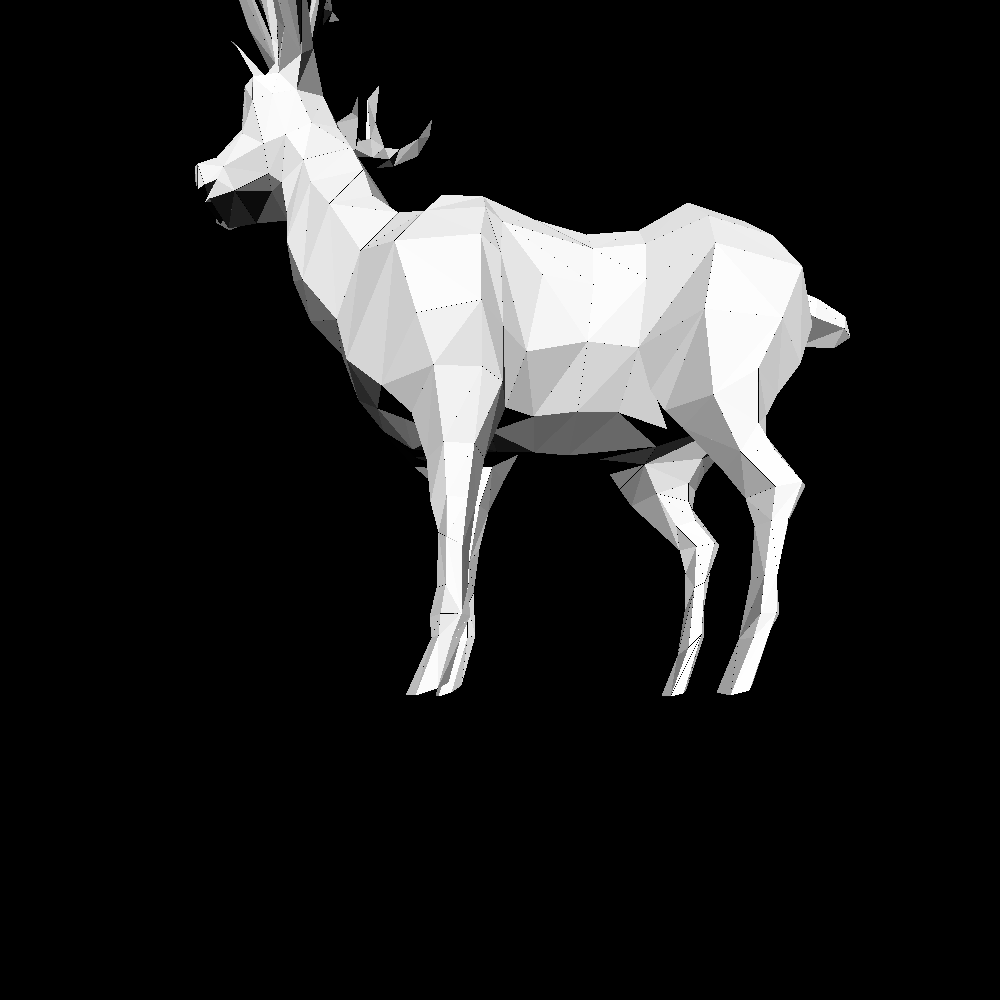
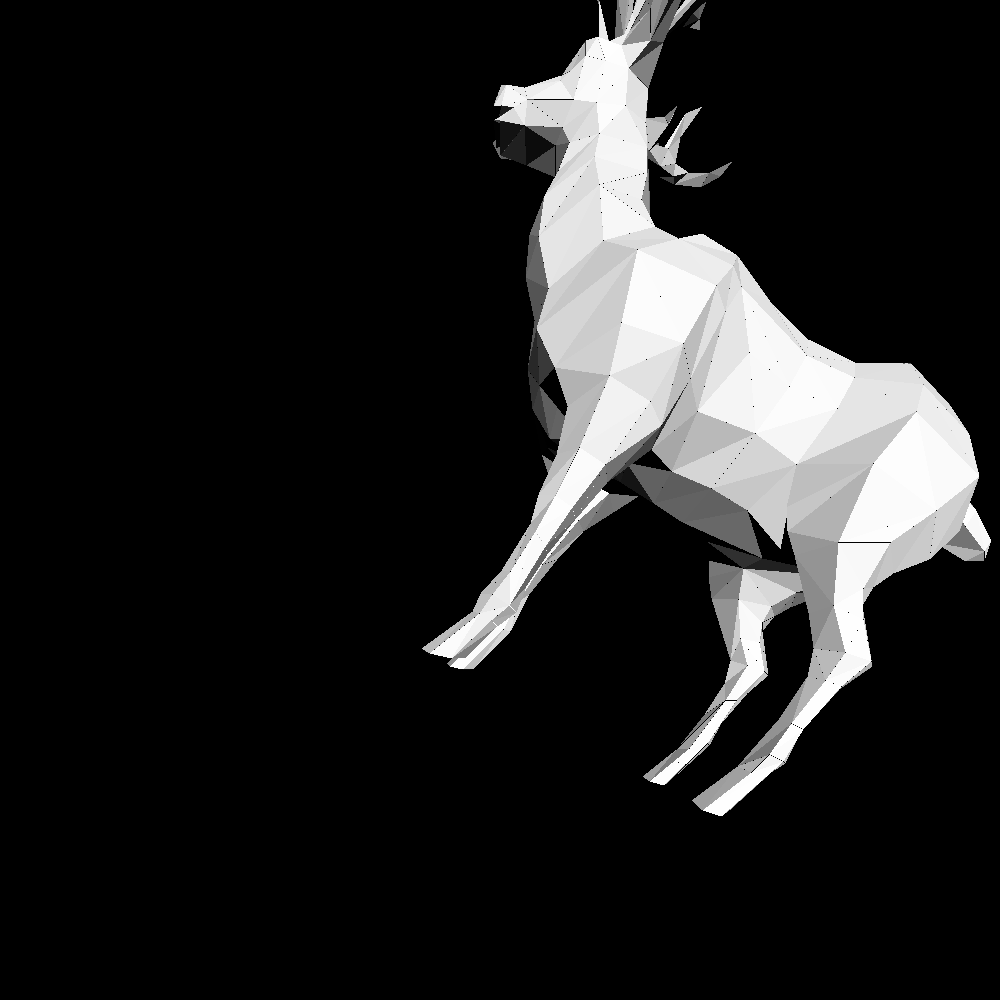
16 task

Changed region(s): [[0.186, 0.0, 0.992, 0.837]]

diff --git a/main.py b/main.py
@@ -32,6 +32,29 @@ class image_obj:
                         break
         return self
 
+    def rotate_x(self, angle):
+        angle = math.radians(angle)
+        for i in range(len(self.verts)):
+            y = self.verts[i][1]
+            z = self.verts[i][2]
+            self.verts[i][1] = y * math.cos(angle) - z * math.sin(angle)
+            self.verts[i][2] = z * math.cos(angle) + y * math.sin(angle)
+
+    def rotate_z(self, angle):
+        angle = math.radians(angle)
+        for i in range(len(self.verts)):
+            x = self.verts[i][0]
+            y = self.verts[i][1]
+            self.verts[i][0] = x * math.cos(angle) - y * math.sin(angle)
+            self.verts[i][1] = y * math.cos(angle) + x * math.sin(angle)
+    def rotate_y(self, angle):
+        angle = math.radians(angle)
+        for i in range(len(self.verts)):
+            x = self.verts[i][0]
+            z = self.verts[i][2]
+            self.verts[i][0] = x * math.cos(angle) - z * math.sin(angle)
+            self.verts[i][2] = z * math.cos(angle) + x * math.sin(angle)
+
     def read_normals(self, file):
         for x in file:
             if x.split():
@@ -161,10 +184,12 @@ model2 = image_obj()
 model1.read_vert(open("model_1.obj", "r"))
 model2.read_vert(open("model_2.obj", "r"))
 
+model2.rotate_z(30)  #16 задание. Добавлены 3 метода, можно вращать модели по координатам.
+
 model1.read_poly(open("model_1.obj", "r"))
 model2.read_poly(open("model_2.obj", "r"))
 
-
+#15 задание. Меняем координаты z у всех моделей. Так же добавлена ф-ция projective_transform
 z_offset = abs(min([vert[2] for vert in model1.verts])) + 1
 for vert in model1.verts:
     vert[2] += z_offset
